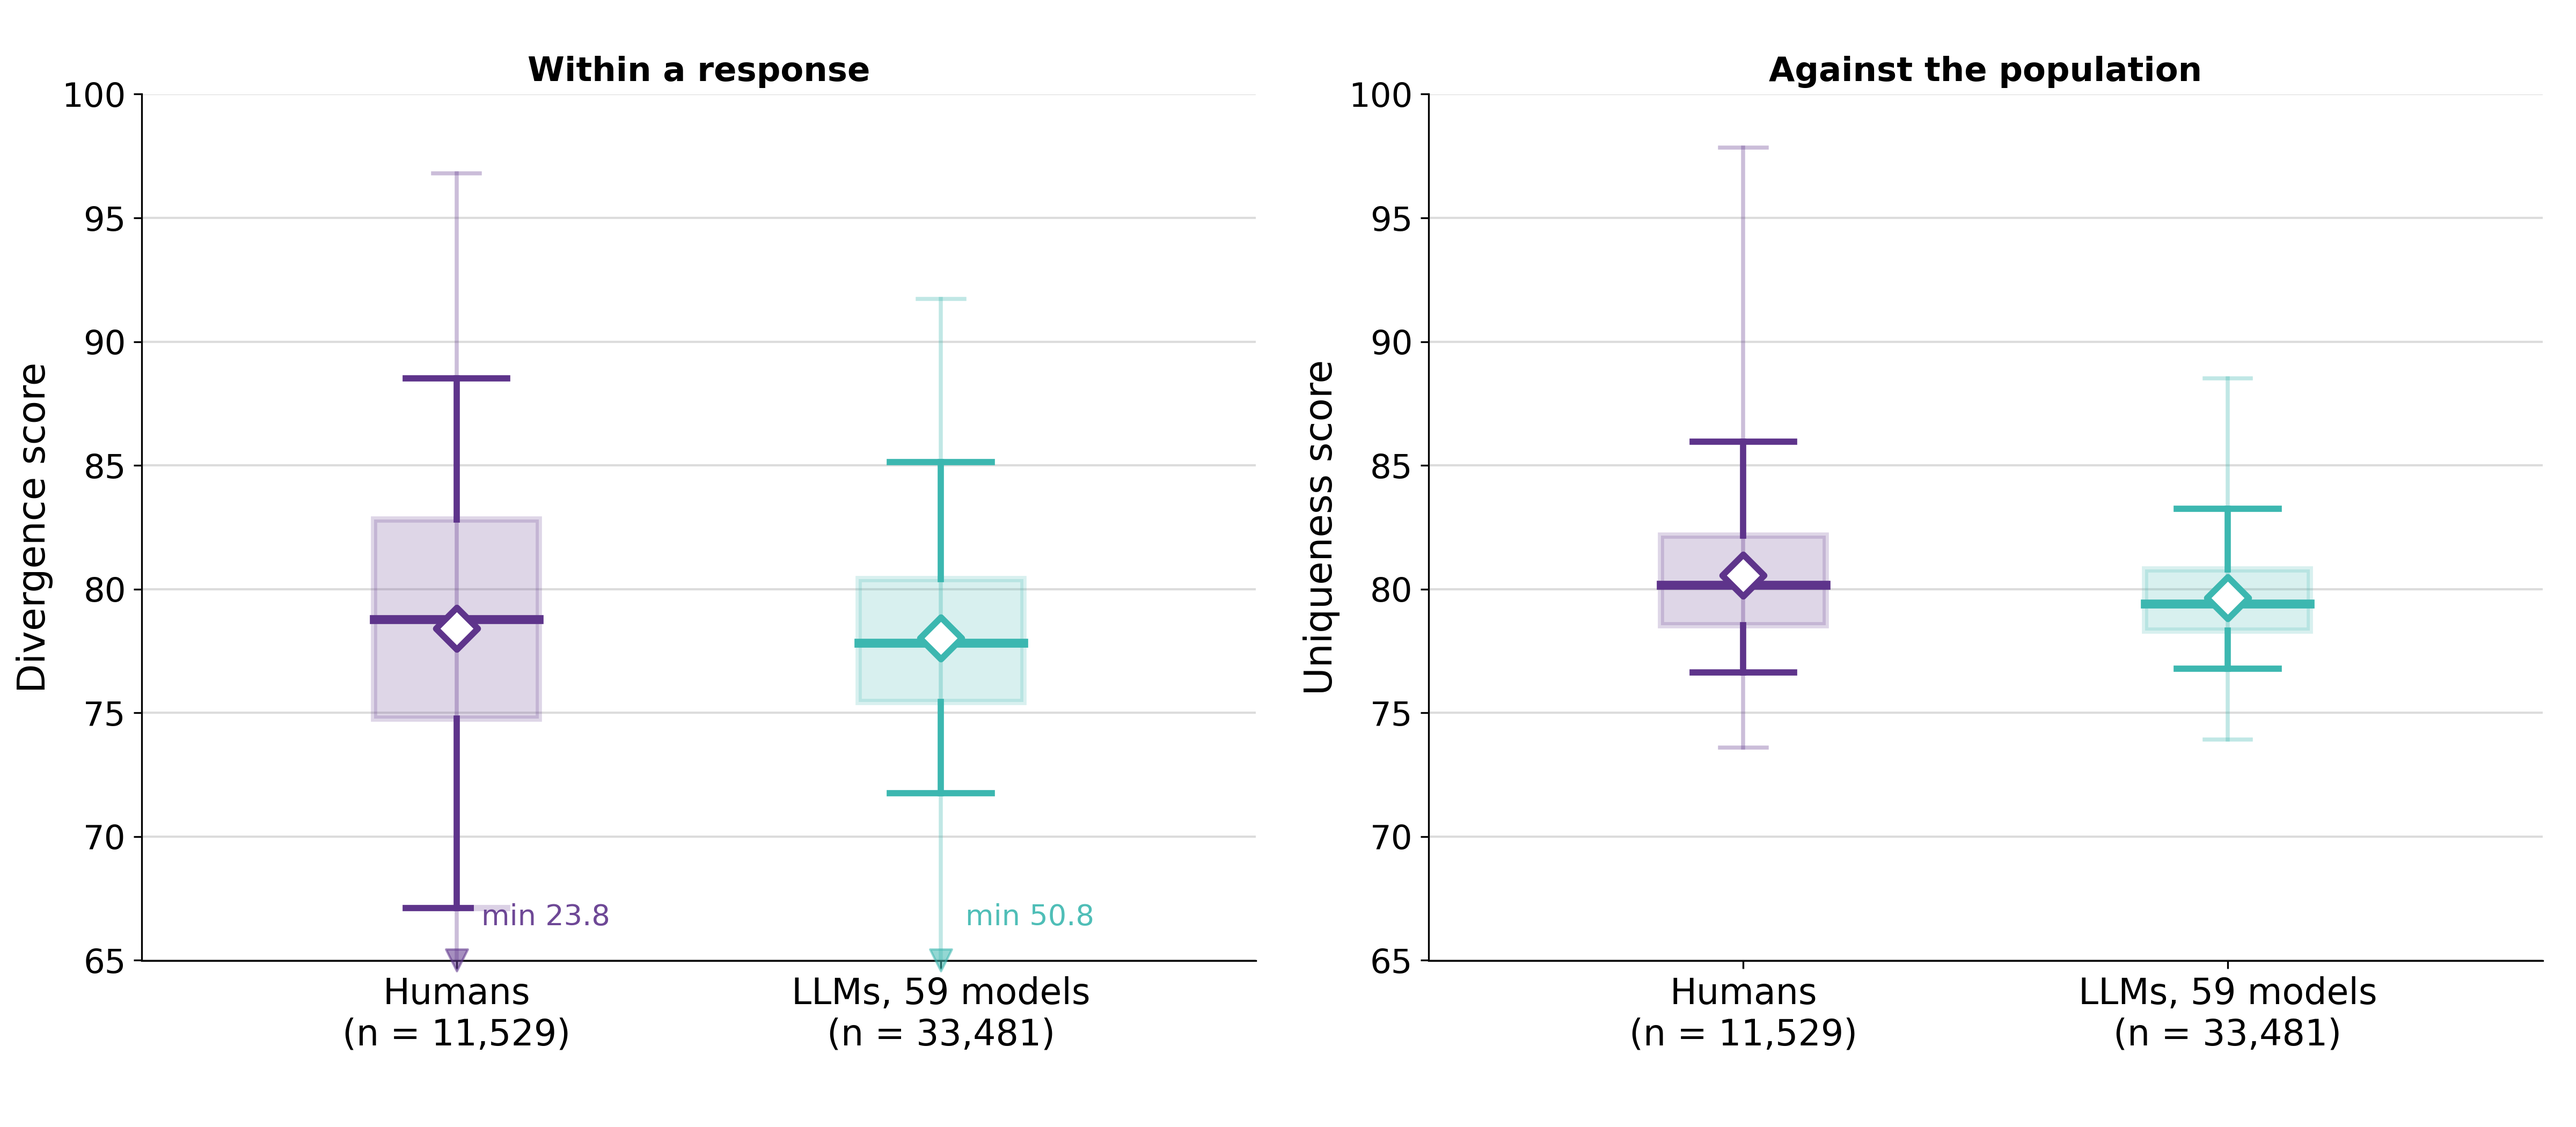
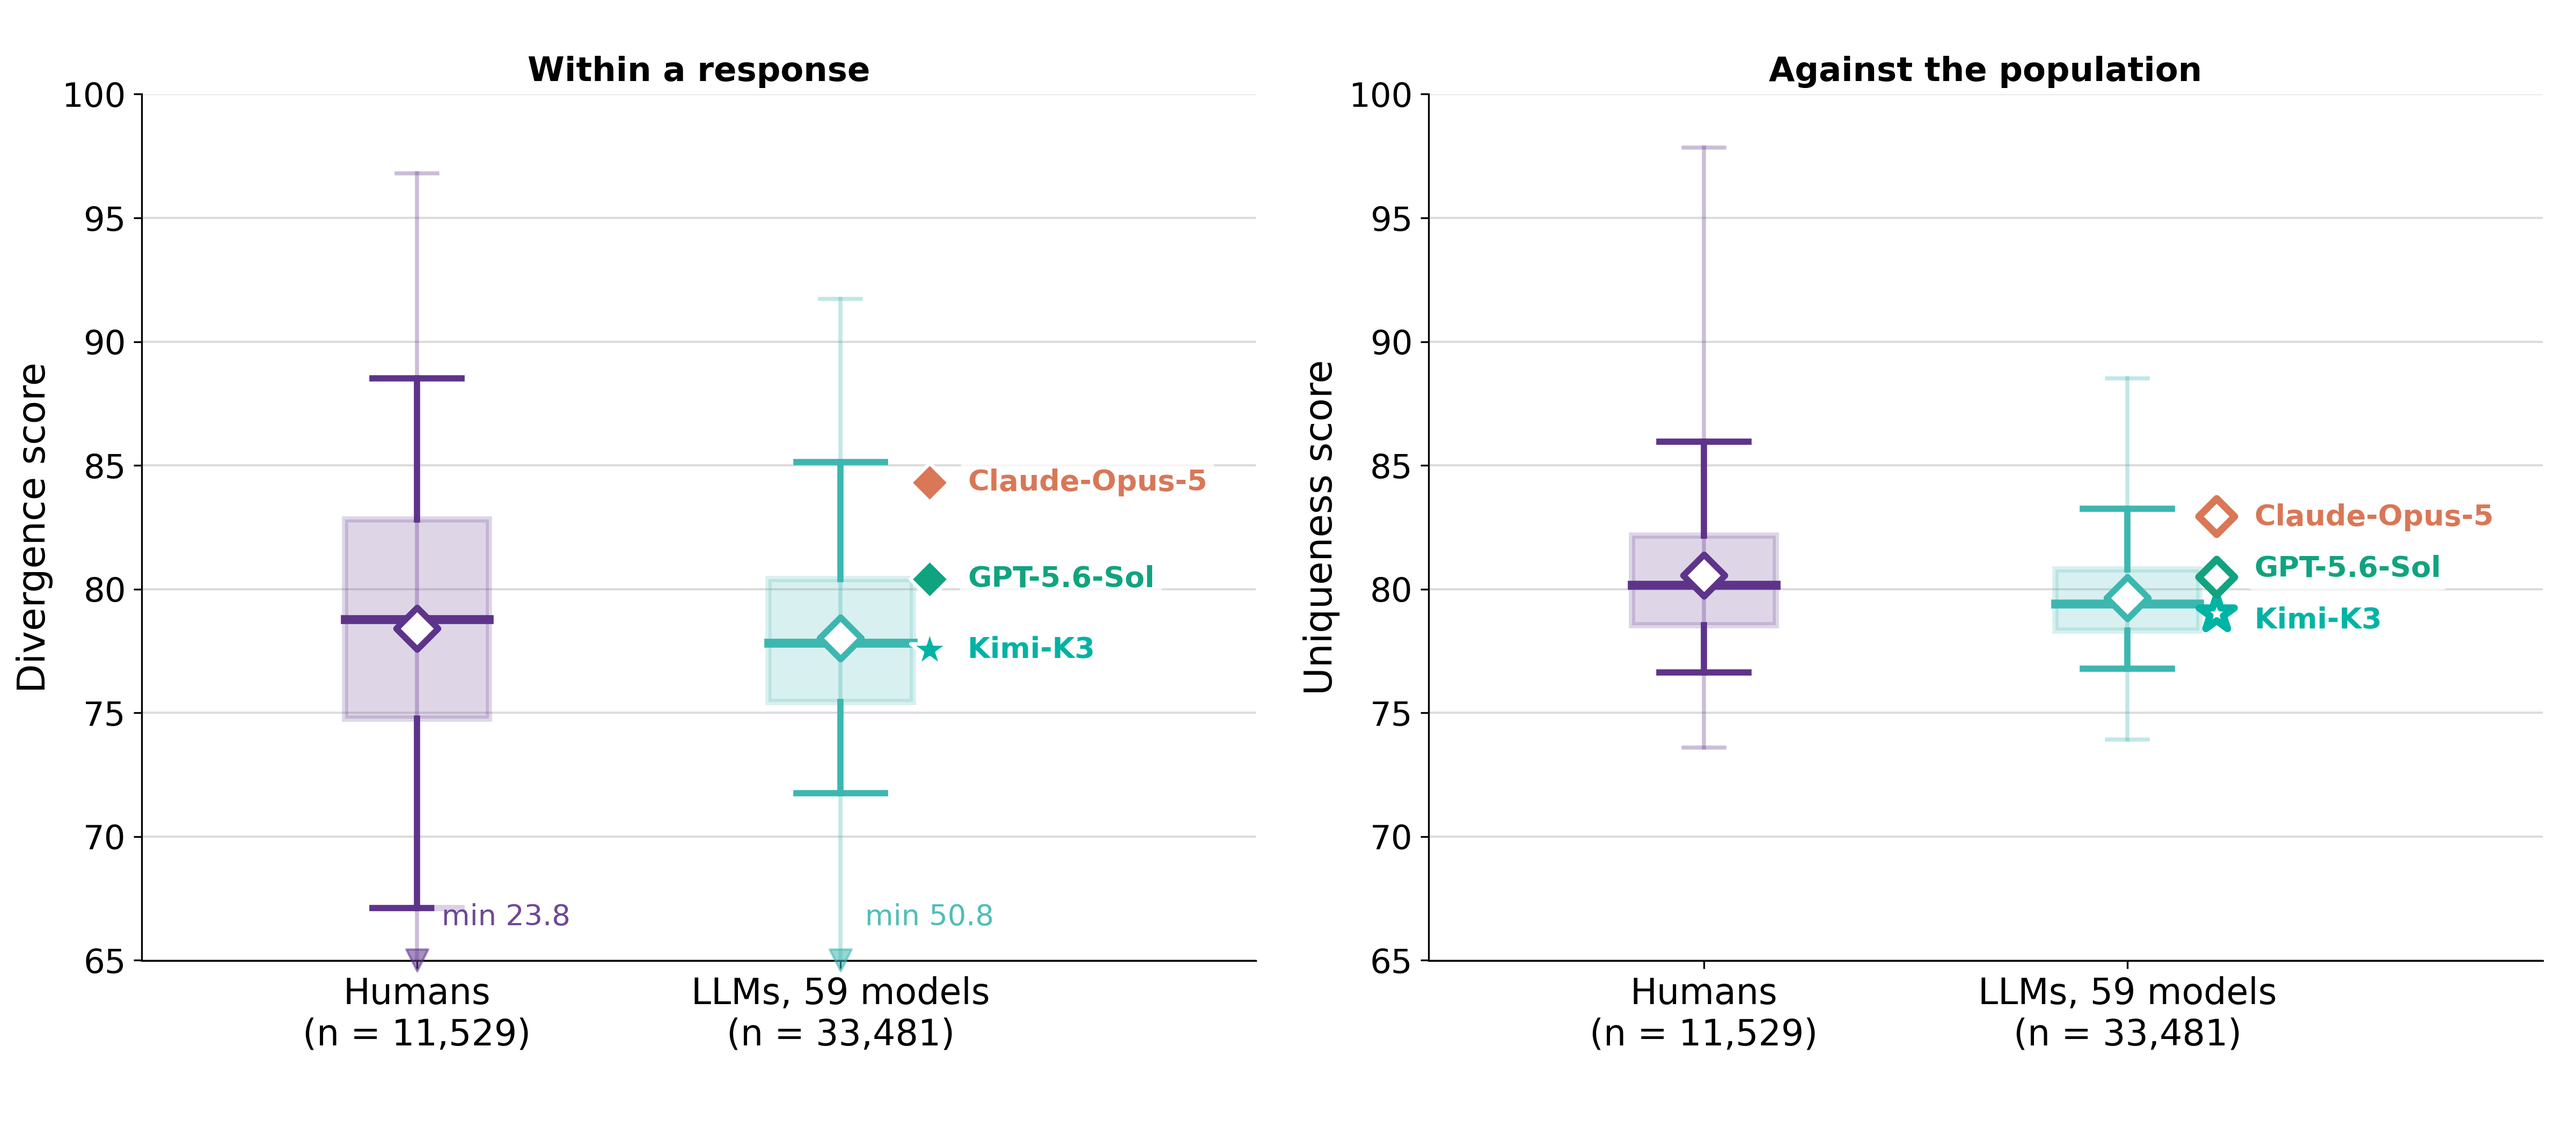
Mark the newest model from each of the three labs on the LLM box
Kimi-K3, GPT-5.6-Sol and Claude-Opus-5 are drawn at their own scores on the LLM box in both
panels, in their time-series provider colour and intelligence-class marker, filled on divergence
and open on uniqueness as the measure convention requires. Newest is read from the release dates,
so the overlay follows the data. Labels are pushed apart when the scores are too close and the
x range gains a right lane so nothing sits on the median or the whisker caps.

diff --git a/analysis/fig6_cross_section_boxes.py b/analysis/fig6_cross_section_boxes.py
@@ -4,16 +4,22 @@
     left  - within-person divergence (DAT)
     right - between-person uniqueness
 
+The newest model from Moonshot, OpenAI and Anthropic is overlaid on the LLM box in each panel,
+in that lab's time-series colour and its intelligence-class marker, so the three flagships can be
+read against the distribution they came from. "Newest" is taken from the release dates, so the
+overlay follows the data instead of a hard-coded list.
+
 Styling is imported from overtime_style, not copied, so this cannot drift from the three
 over-time figures: same 16:9 canvas, same outer margins, same grid, same spines, same title and
 axis-label sizes. Reads the response-level scores written by build_overtime_data.py.
 
 Env: FIG_BOX_YLIM (default "65,100"), FIG_BOX_YSTEP, FIG_NOTITLE / FIG_TITLE=0, FIG_OUT.
 """
-import os, sys, csv
+import os, sys, csv, json
 import numpy as np
 sys.path.insert(0, os.path.dirname(os.path.abspath(__file__)))
-from overtime_style import HUMAN_PURPLE, LBL_BOX, FIGSIZE, save, plt, NOTITLE, vmargins
+from overtime_style import (HUMAN_PURPLE, LBL_BOX, FIGSIZE, save, plt, NOTITLE, vmargins,
+                            PROV_COLOR, MARK, SIZE)
 from matplotlib.patches import Rectangle
 
 ROOT = sys.argv[1] if len(sys.argv) > 1 else "/home/user/verify"
@@ -35,6 +41,53 @@ def col(path, field, where=None):
         if where and not where(r): continue
         if r[field] != "": out.append(float(r[field]))
     return np.array(out)
+
+FLAG_PROVS = ("moonshot", "openai", "anthropic")
+def latest_flagships():
+    """Newest released model per lab, from the same release dates the time-series figures use."""
+    best = {}
+    for r in json.load(open(f"{DATA}/permonth_data.json"))["recs"]:
+        fy, prov, intel, name = r[0], r[4], r[5], r[6]
+        if prov in FLAG_PROVS and (prov not in best or fy > best[prov][0]):
+            best[prov] = (fy, prov, name, intel)
+    return [best[p] for p in FLAG_PROVS if p in best]
+
+FLAGSHIPS = latest_flagships()
+MROWS = list(csv.DictReader(open(M, newline='')))
+def model_mean(name, field):
+    v = [float(r[field]) for r in MROWS if r['model_name'] == name and r[field] != ""]
+    return sum(v) / len(v)
+
+def flagships(ax, field, x=2.21, min_gap=23):
+    """Marker convention follows the MEASURE, as everywhere else: divergence is a filled marker,
+    uniqueness is an open one. x sits on the shoulder of the box so the median, mean and whisker
+    caps at the centre line stay readable.
+
+    Markers always sit at the true score. Only the LABELS are pushed apart, by min_gap points,
+    and the pushed stack is re-centred so it does not drift off the group it describes. On the
+    uniqueness panel the three flagships fall within 3.9 points of each other, so without this
+    the labels overlap.
+    """
+    filled = field == 'dat_score'
+    items = sorted(((model_mean(n, field), p, n, i) for _f, p, n, i in FLAGSHIPS),
+                   key=lambda t: t[0])
+    dpi = ax.figure.dpi
+    true_pt = [ax.transData.transform((x, y))[1] / dpi * 72 for y, *_ in items]
+    lab_pt = list(true_pt)
+    for k in range(1, len(lab_pt)):
+        lab_pt[k] = max(lab_pt[k], lab_pt[k-1] + min_gap)
+    drift = (sum(true_pt) - sum(lab_pt)) / len(lab_pt)
+    for (y, prov, name, intel), t, l in zip(items, true_pt, lab_pt):
+        c = PROV_COLOR[prov]
+        if filled:
+            ax.scatter([x], [y], marker=MARK[intel], s=SIZE[intel], color=c,
+                       edgecolors='white', linewidths=1.6, zorder=8)
+        else:
+            ax.scatter([x], [y], marker=MARK[intel], s=SIZE[intel]*0.855, facecolors='white',
+                       edgecolors=c, linewidths=3.2, zorder=8)
+        ax.annotate(name, (x, y), textcoords="offset points", xytext=(17, l + drift - t),
+                    ha='left', va='center', fontsize=13, weight='bold', color=c,
+                    bbox=LBL_BOX, zorder=9)
 
 def stats(v):
     q1, med, q3 = np.percentile(v, [25, 50, 75])
@@ -66,9 +119,9 @@ def box(ax, x, s, color, W=0.34):
     ax.scatter([x], [s['mean']], marker='D', s=175, facecolors='white', edgecolors=color,
                linewidths=2.8, zorder=6)
 
-def panel(ax, hv, mv, ylab, label):
+def panel(ax, hv, mv, ylab, label, field):
     hs, ms = stats(hv), stats(mv)
-    ax.set_xlim(0.35, 2.65); ax.set_ylim(*YLIM)
+    ax.set_xlim(0.35, 2.98); ax.set_ylim(*YLIM)   # right lane holds the flagship labels
     ax.set_yticks(np.arange(YLIM[0], YLIM[1] + 0.01, YSTEP))
     ax.grid(which='major', axis='y', color='#dcdcdc', lw=1.0, zorder=0)
     ax.set_axisbelow(True); ax.spines[['top', 'right']].set_visible(False)
@@ -79,6 +132,7 @@ def panel(ax, hv, mv, ylab, label):
                         f"LLMs, {N_MODELS} models\n(n = {ms['n']:,})"], fontsize=16)
     ax.set_ylabel(ylab, fontsize=17)
     ax.set_title(label, fontsize=15, weight='bold')   # panel label always shown
+    flagships(ax, field)
     d = (ms['mean'] - hs['mean']) / np.sqrt(((hs['n']-1)*hs['sd']**2 + (ms['n']-1)*ms['sd']**2)
                                             / (hs['n']+ms['n']-2))
     print(f"  {label:26} human {hs['mean']:.2f}/{hs['sd']:.2f} n={hs['n']}   "
@@ -93,7 +147,10 @@ if SHOW_TITLE:
                  "diamond = mean; whiskers = 5th/95th percentile; thin line = full range",
                  fontsize=15, weight='bold', y=1-0.315/FIGSIZE[1])
 panel(axes[0], col(H, 'dat_score', MATCHED), col(M, 'dat_score'),
-      "Divergence score", "Within a response")
+      "Divergence score", "Within a response", 'dat_score')
 panel(axes[1], col(H, 'uniqueness_human_agnostic', MATCHED), col(M, 'uniqueness_human_agnostic'),
-      "Uniqueness score", "Against the population")
+      "Uniqueness score", "Against the population", 'uniqueness_human_agnostic')
+for _fy, _p, _n, _i in FLAGSHIPS:
+    print(f"  flagship {_n:16} {_p:10} divergence {model_mean(_n,'dat_score'):.2f}  "
+          f"uniqueness {model_mean(_n,'uniqueness_human_agnostic'):.2f}")
 save(fig, "fig6_cross_section_boxes.png")
